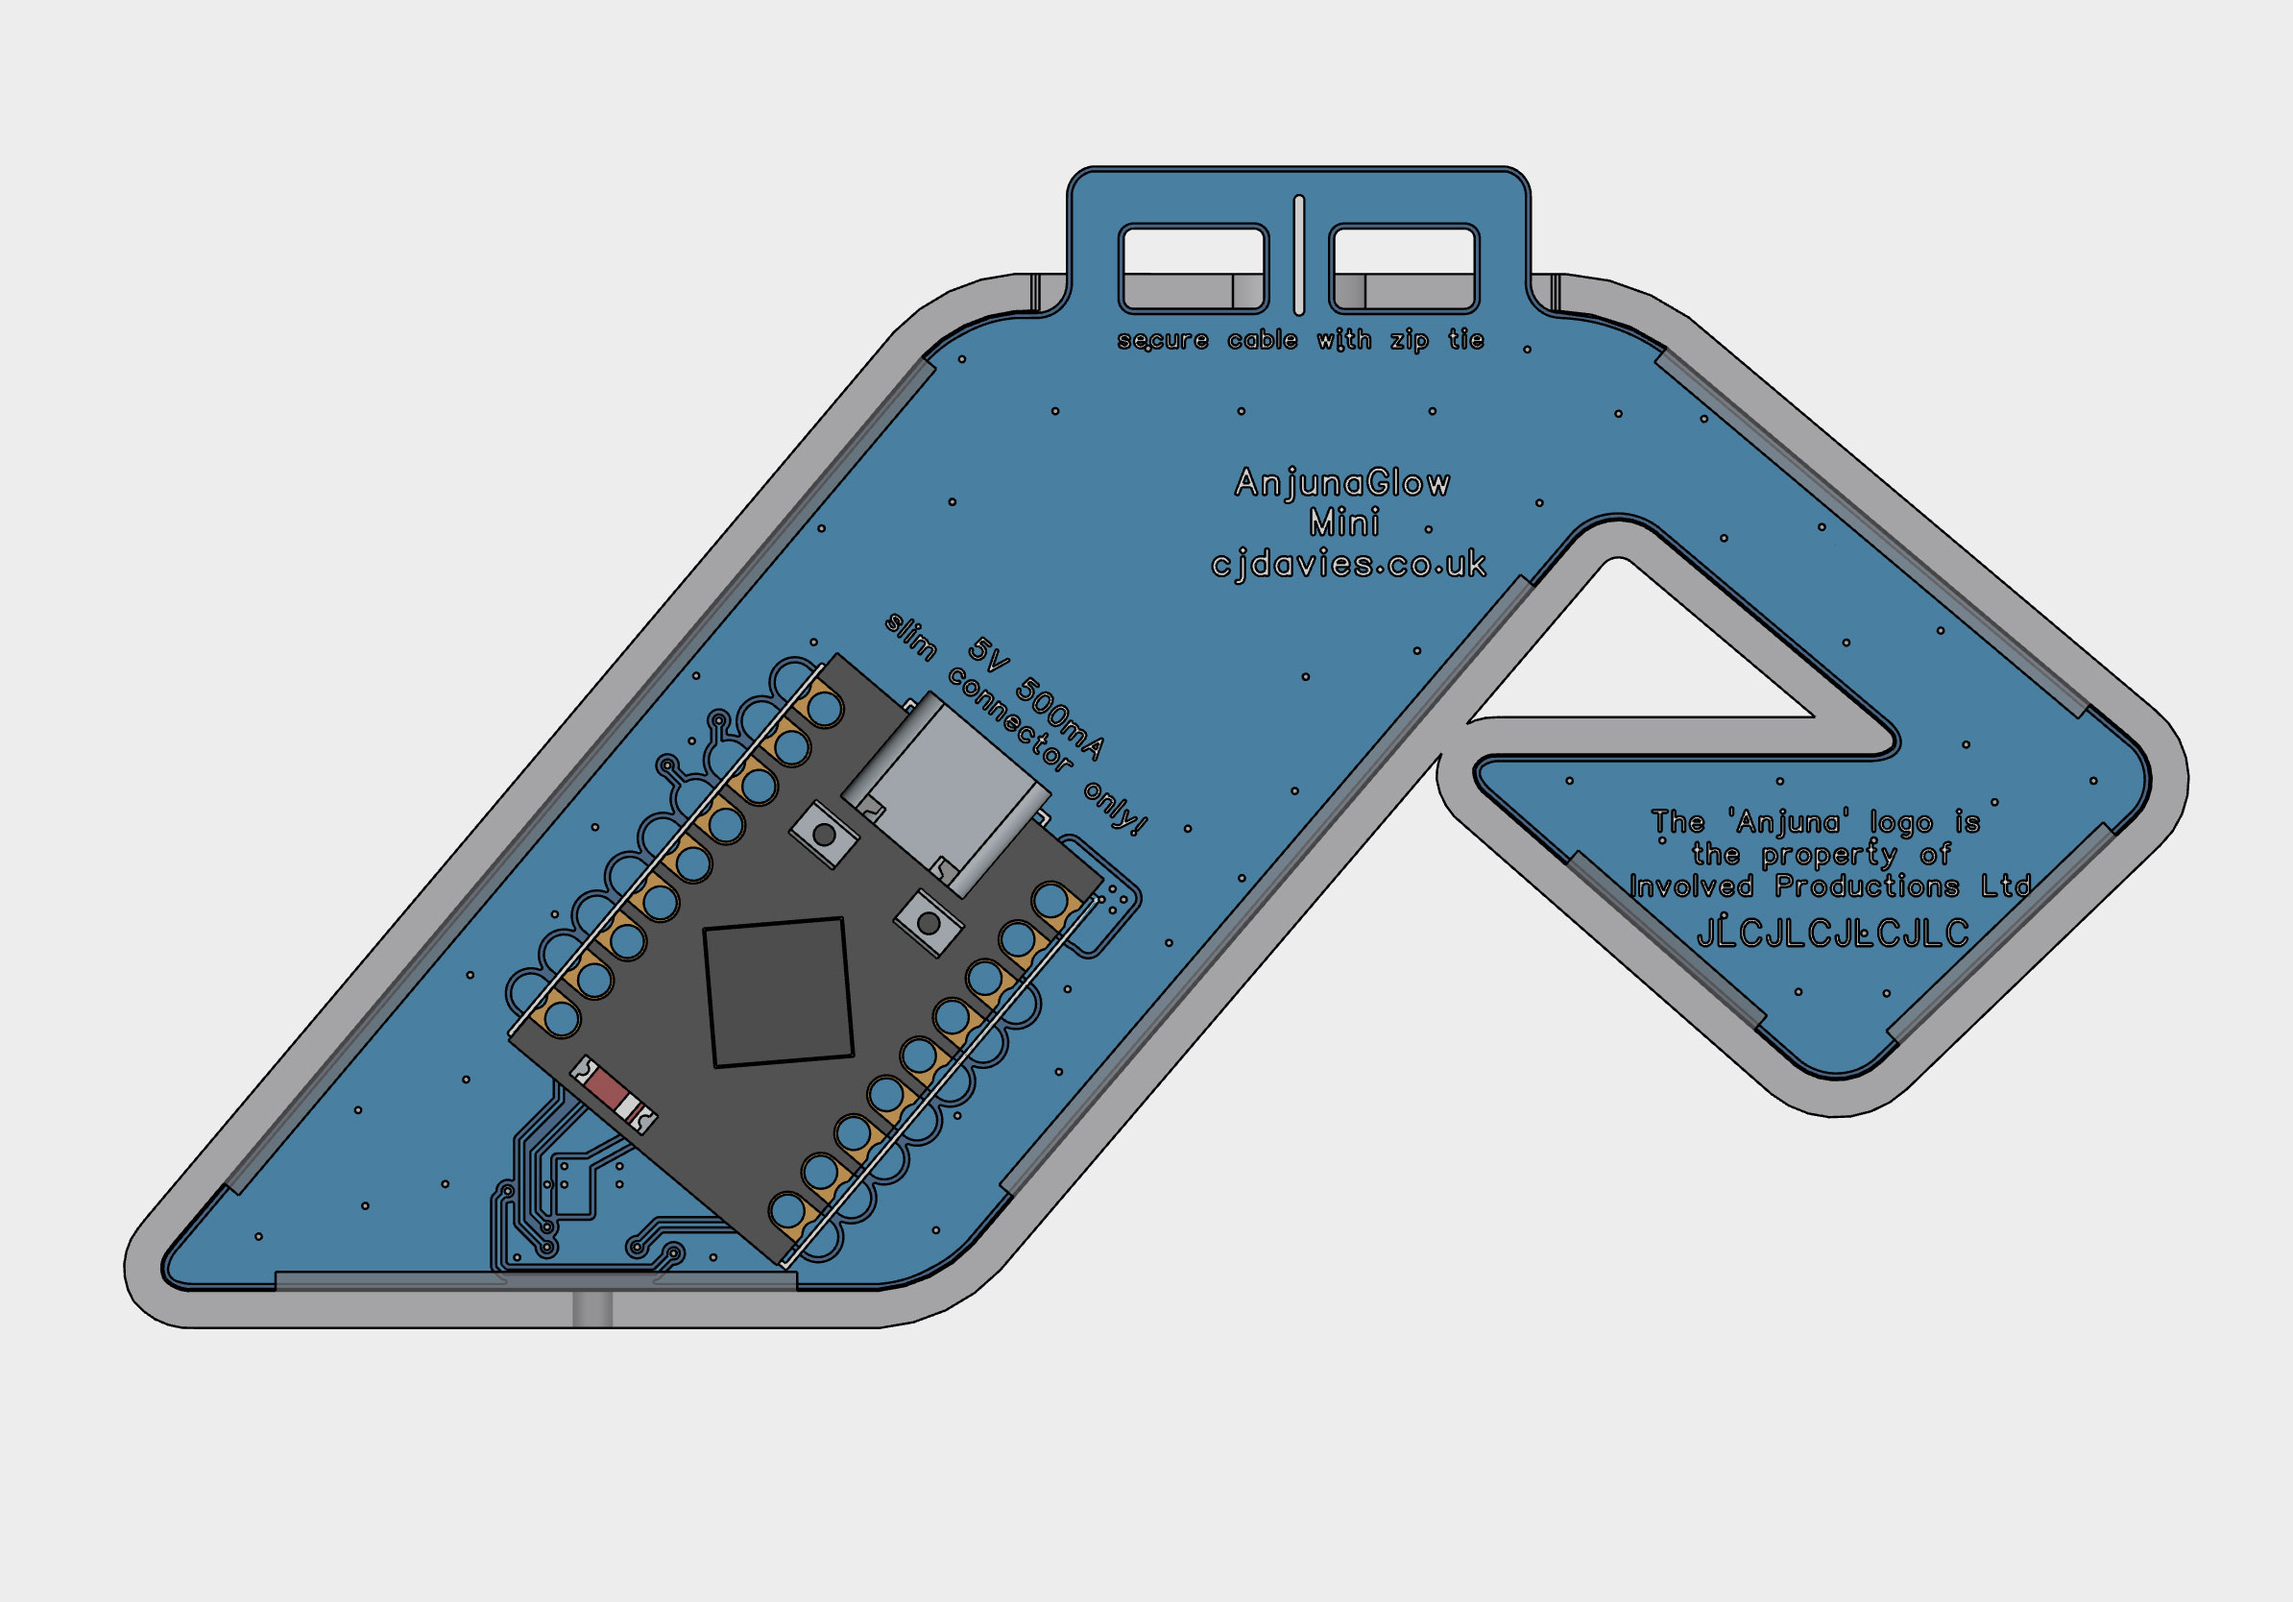
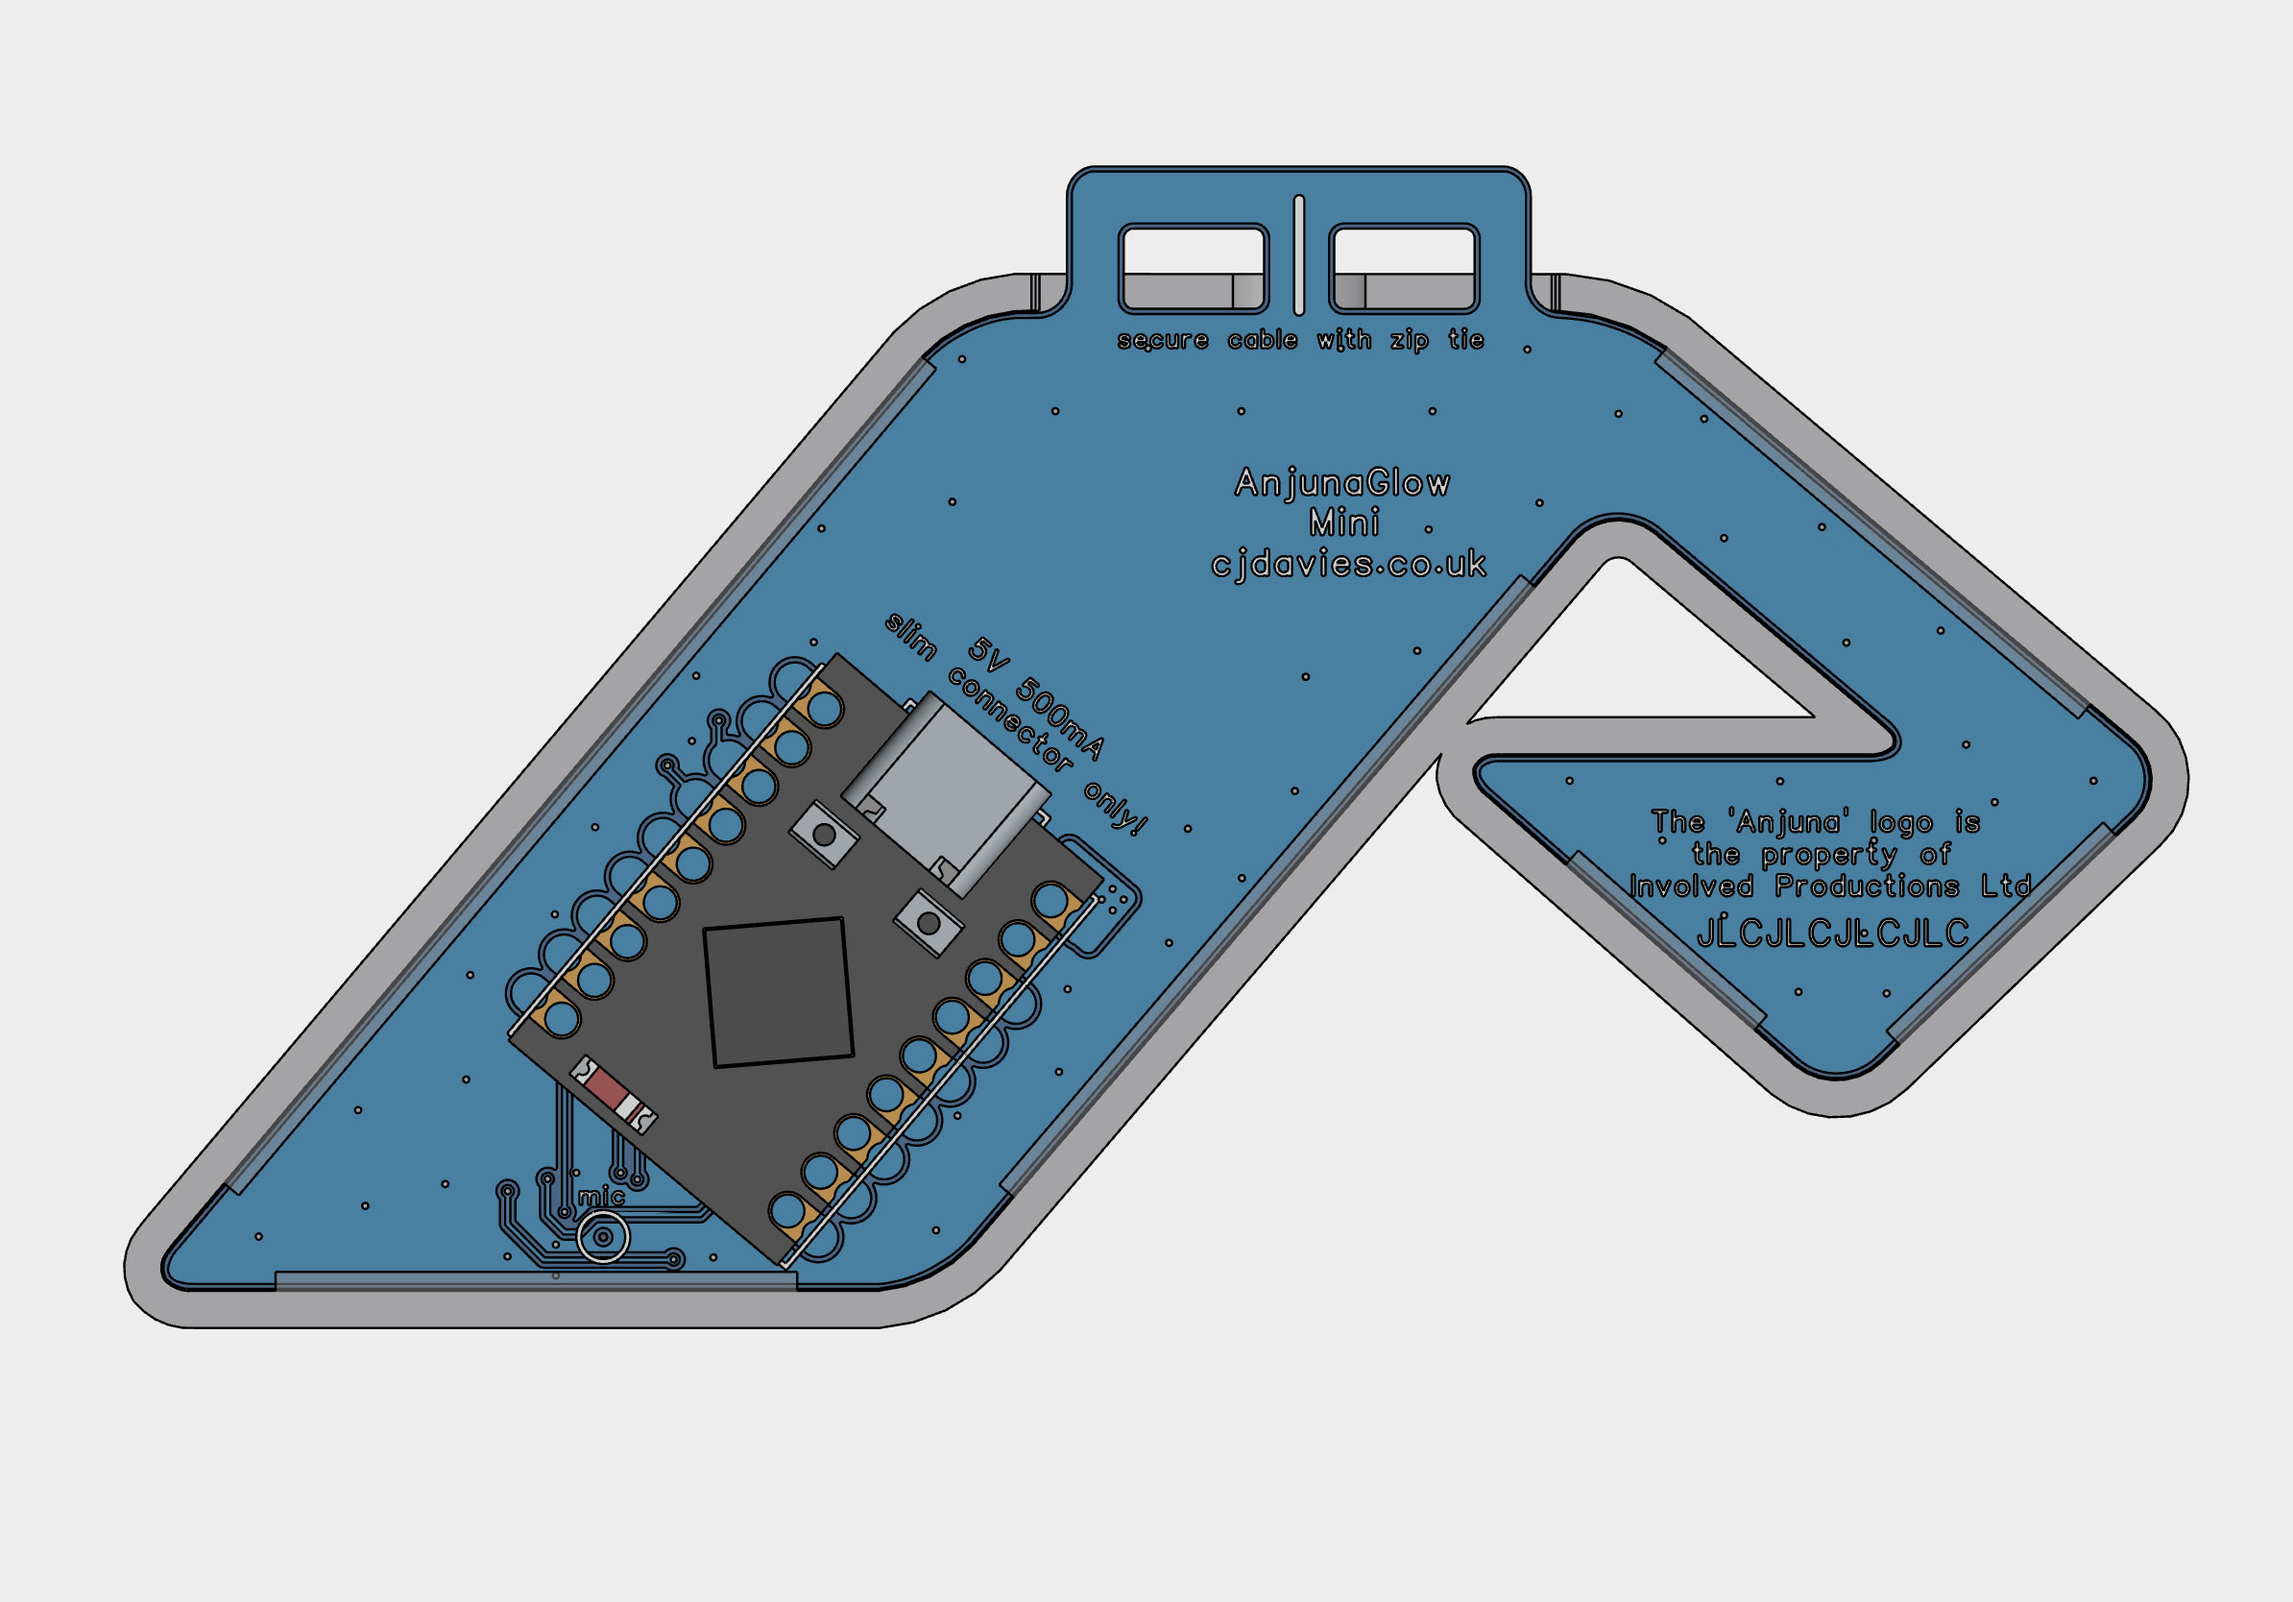
AnjunaGlow Mini update

diff --git a/src/projects/anjunaglow_mini/index.html b/src/projects/anjunaglow_mini/index.html
@@ -35,7 +35,9 @@
 
                 <p class='lead text-muted'>A miniaturization of my <a href="../anjunaglow/">previous AnjunaGlow project</a>, based on the logo of the <a href="https://anjunabeats.com/">Anjunabeats</a>/<a href="https://anjunadeep.com/">Anjunadeep</a> record labels.</p>
 
-                <p class='lead text-muted'>06/02/2026 - testing microphone integration (MSM261S4030H0R).</p>
+                <p class='lead text-muted'>Now audio reactive!</p>
+
+                <p class='lead text-muted'>19/02/2026 - awaiting prototype PCBA with ICS-43434 microphone.</p>
 
                 <input type="button" class="btn btn-outline-primary" value="Back" onclick="location.href = '../';">
             </div>
@@ -76,6 +78,9 @@
                     </a>
                     <a href="img/5.jpg" data-toggle="lightbox" data-gallery="example-gallery" class="col-sm-4">
                         <img src="img/5s.jpg" class="img-fluid img-thumbnail">
+                    </a>
+                    <a href="img/6.jpg" data-toggle="lightbox" data-gallery="example-gallery" class="col-sm-4">
+                        <img src="img/6s.jpg" class="img-fluid img-thumbnail">
                     </a>
                 </div>
             </div>

diff --git a/src/projects/index.html b/src/projects/index.html
@@ -50,7 +50,7 @@
                     </div>
                     <div container class="col-sm-4">
                         <a href="./anjunaglow_mini/">
-                            <img src="./anjunaglow_mini/img/6s.jpg" class="img-fluid img-thumbnail mx-auto d-block">
+                            <img src="./anjunaglow_mini/img/0s.jpg" class="img-fluid img-thumbnail mx-auto d-block">
                             <h5>AnjunaGlow Mini (2026)</h5>
                         </a>
                         <p class='text-center'>Miniaturized LED Anjuna logo.</p>
